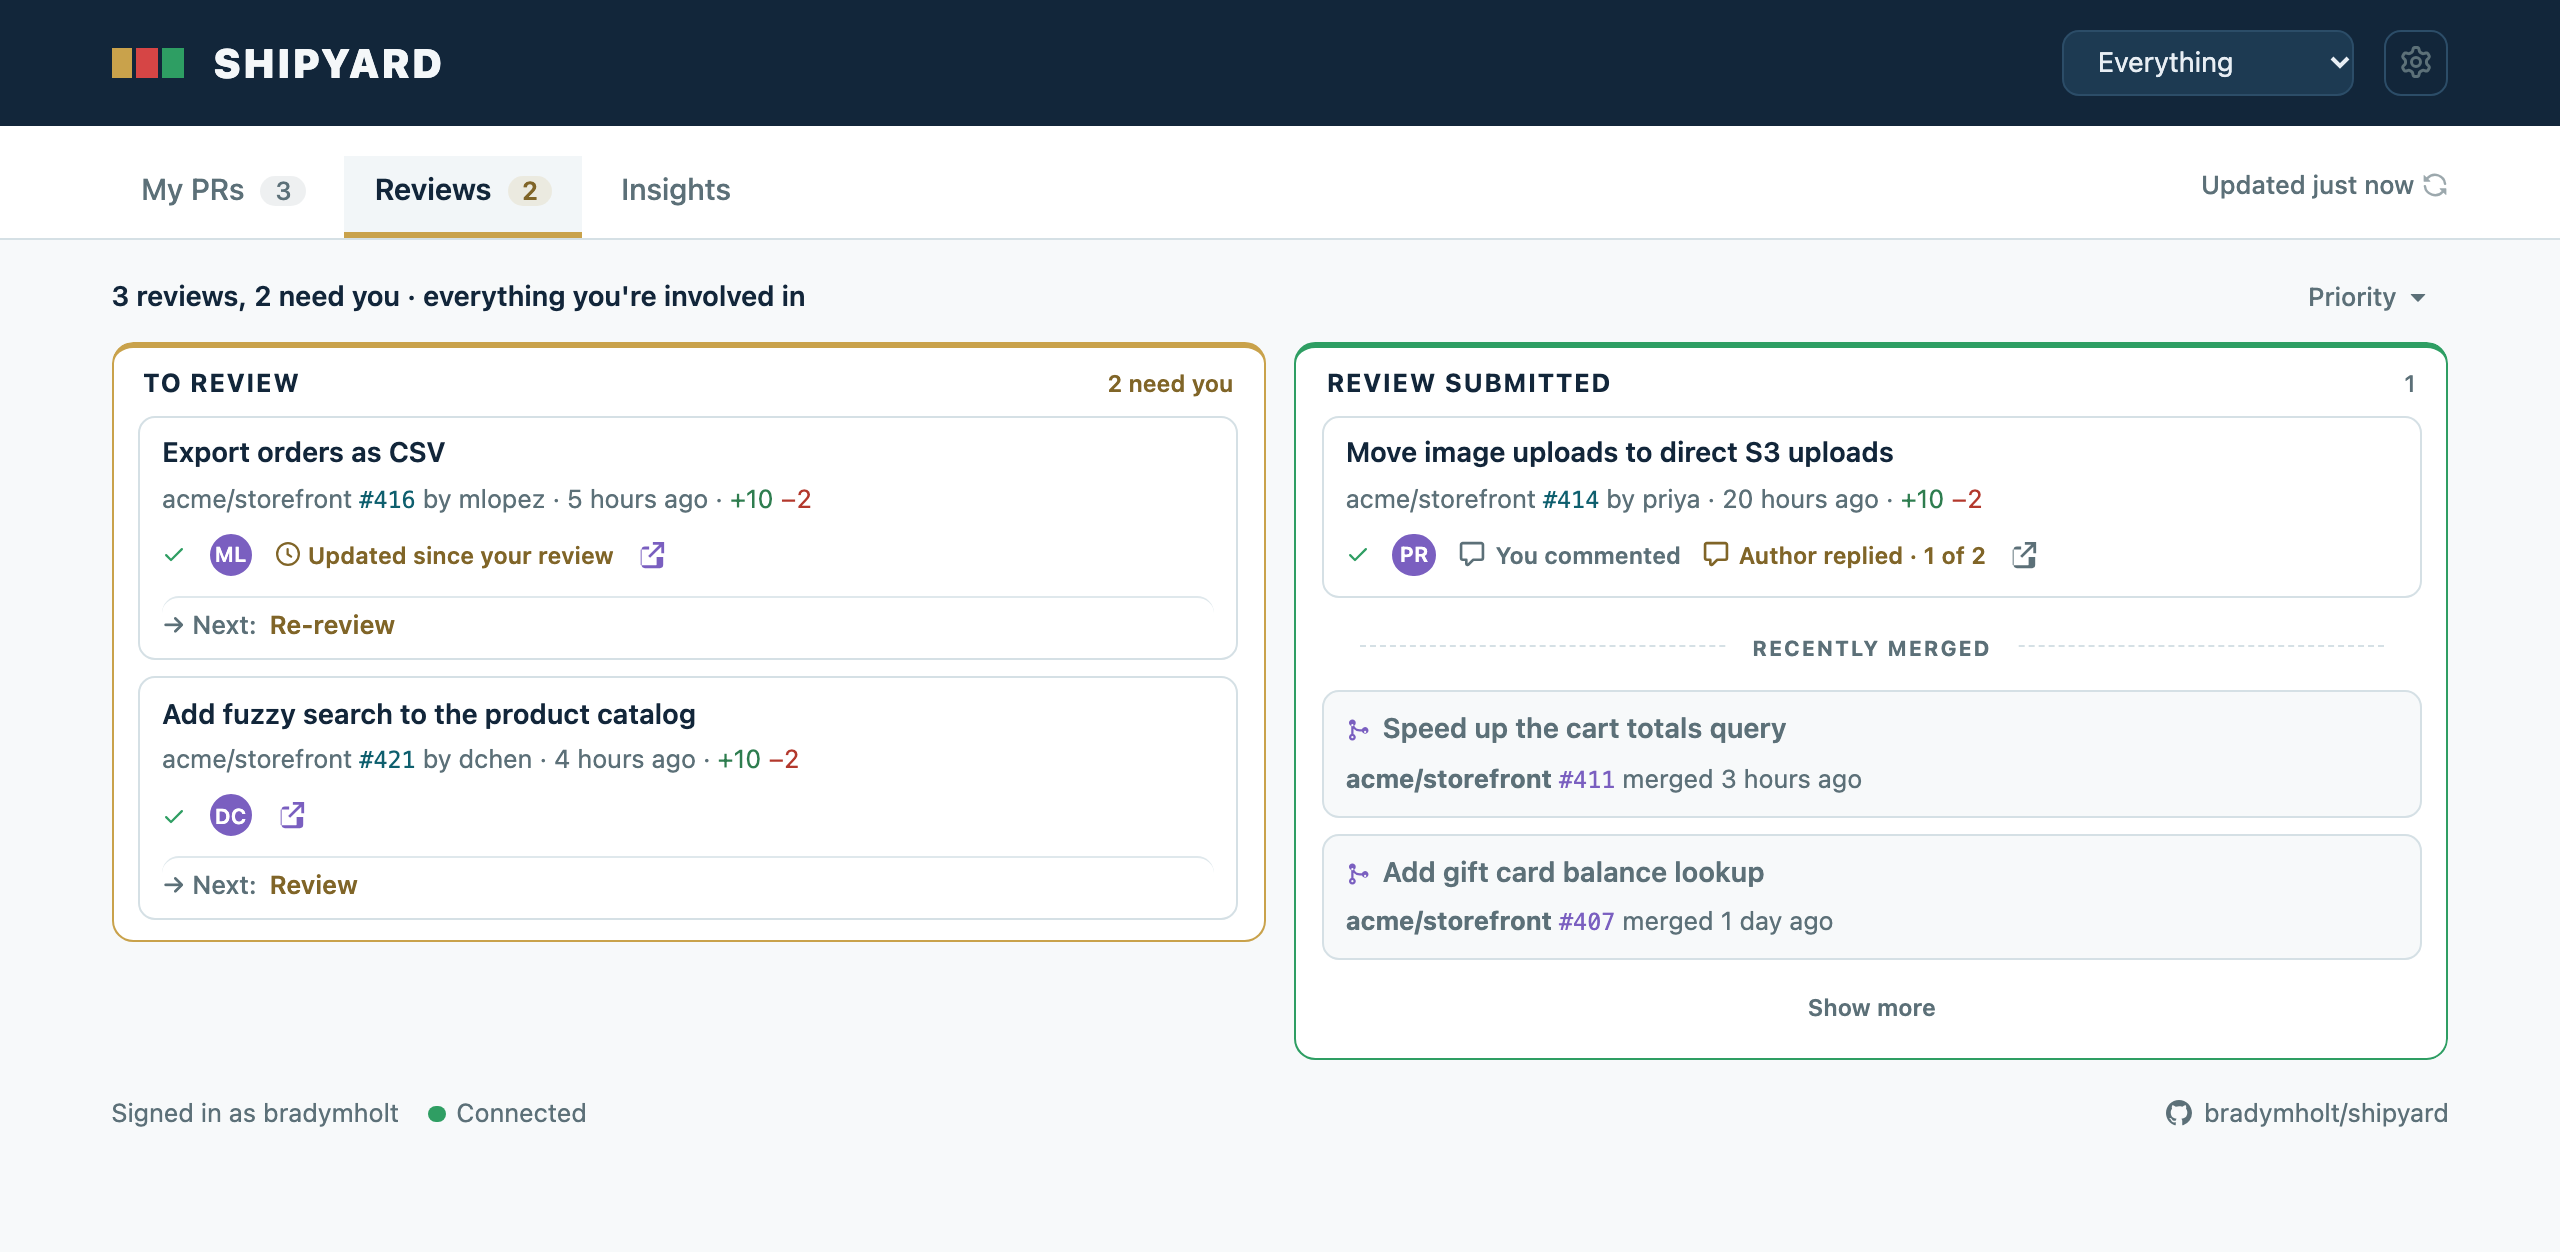
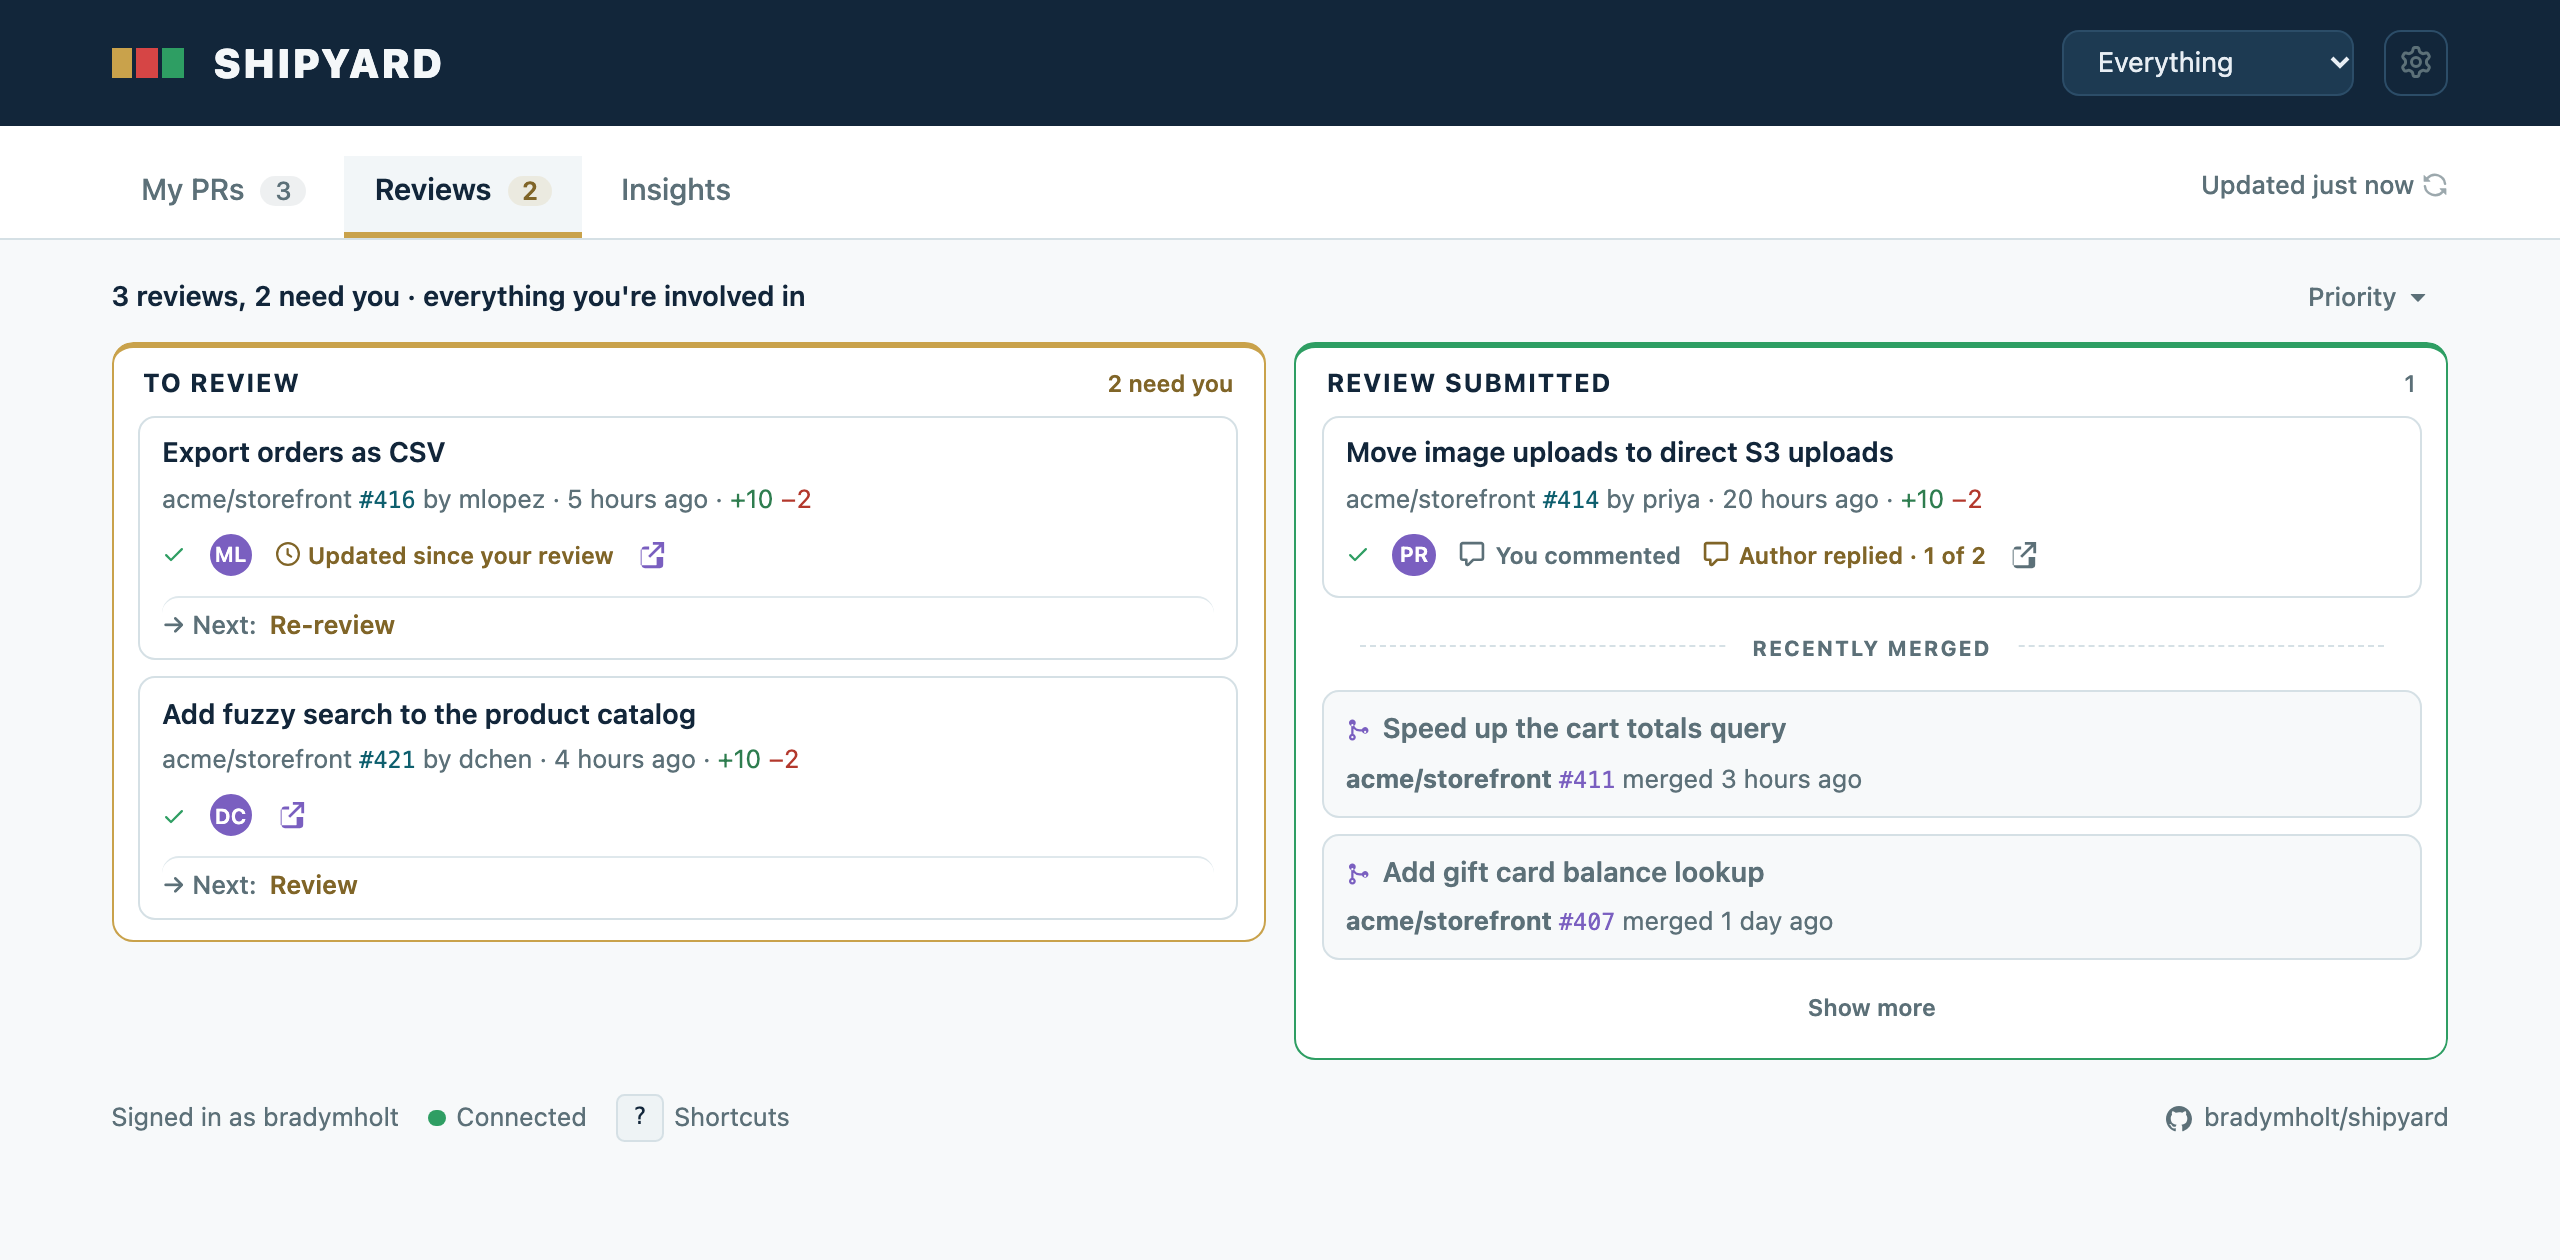
Point to the keyboard shortcuts from the footer
Nothing on the page said ? exists. The footer now carries a small
"? Shortcuts" hint that opens the same list when clicked. It is hidden
on phone widths, where there is no keyboard to press it on.

diff --git a/app.css b/app.css
@@ -195,7 +195,7 @@ dialog#error-dialog::backdrop, dialog#shortcuts-dialog::backdrop { background: v
 .shortcuts { display: grid; grid-template-columns: max-content 1fr; gap: 0.5rem 0.875rem; margin: 0.75rem 0 0; font-size: 0.8125rem; }
 .shortcuts dt { white-space: nowrap; }
 .shortcuts dd { margin: 0; color: var(--fg-muted); }
-.shortcuts kbd { display: inline-block; min-width: 1.375rem; padding: 0 0.3125rem; border: 1px solid var(--border); border-radius: 0.25rem; background: var(--bg-inset); font: 500 0.6875rem/1.25rem var(--mono); text-align: center; color: var(--fg); }
+.shortcuts kbd, .shortcuts-hint kbd { display: inline-block; min-width: 1.375rem; padding: 0 0.3125rem; border: 1px solid var(--border); border-radius: 0.25rem; background: var(--bg-inset); font: 500 0.6875rem/1.25rem var(--mono); text-align: center; color: var(--fg); }
 #error-dialog p { margin: 0 0 1rem; color: var(--fg-muted); font-size: 0.875rem; white-space: pre-wrap; }
 .modal-actions { display: flex; justify-content: flex-end; margin: 1rem 0 0; }
 .views-list { list-style: none; margin: 0.375rem 0 0; padding: 0; display: flex; flex-direction: column; gap: 0.25rem; }
@@ -597,6 +597,10 @@ button.am-toggle:disabled { opacity: .5; cursor: default; }
 
 footer { margin-top: 1rem; color: var(--fg-muted); font-size: 0.75rem; display: flex; gap: 0.875rem; align-items: center; flex-wrap: wrap; }
 #server-status { display: inline-flex; align-items: center; gap: 0.3125rem; }
+.shortcuts-hint { display: inline-flex; align-items: center; gap: 0.3125rem; border: none; background: none; padding: 0; font: inherit; color: inherit; }
+.shortcuts-hint:hover { background: none; color: var(--fg); }
+/* A phone has no keyboard to press it on. */
+@media (max-width: 900px) { .shortcuts-hint { display: none; } }
 .repo-link { margin-left: auto; display: inline-flex; align-items: center; gap: 0.375rem; color: var(--fg-muted); }
 .repo-link:hover { color: var(--teal); text-decoration: none; }
 .repo-link svg { fill: currentColor; }

diff --git a/index.html b/index.html
@@ -115,6 +115,7 @@
   <footer>
     <span id="viewer-info"></span>
     <span id="server-status"></span>
+    <button type="button" id="shortcuts-hint" class="shortcuts-hint" title="Keyboard shortcuts"><kbd>?</kbd> Shortcuts</button>
     <a class="repo-link" href="https://github.com/bradymholt/shipyard" target="_blank" rel="noopener" title="Shipyard on GitHub">
       <svg width="13" height="13" viewBox="0 0 16 16" aria-hidden="true"><path d="M8 0C3.58 0 0 3.58 0 8c0 3.54 2.29 6.53 5.47 7.59.4.07.55-.17.55-.38 0-.19-.01-.82-.01-1.49-2.01.37-2.53-.49-2.69-.94-.09-.23-.48-.94-.82-1.13-.28-.15-.68-.52-.01-.53.63-.01 1.08.58 1.23.82.72 1.21 1.87.87 2.33.66.07-.52.28-.87.51-1.07-1.78-.2-3.64-.89-3.64-3.95 0-.87.31-1.59.82-2.15-.08-.2-.36-1.02.08-2.12 0 0 .67-.21 2.2.82a7.6 7.6 0 0 1 2-.27c.68 0 1.36.09 2 .27 1.53-1.04 2.2-.82 2.2-.82.44 1.1.16 1.92.08 2.12.51.56.82 1.27.82 2.15 0 3.07-1.87 3.75-3.65 3.95.29.25.54.73.54 1.48 0 1.07-.01 1.93-.01 2.2 0 .21.15.46.55.38A8.01 8.01 0 0 0 16 8c0-4.42-3.58-8-8-8Z"/></svg>
       bradymholt/shipyard

diff --git a/js/board.js b/js/board.js
@@ -686,6 +686,8 @@ listBody.addEventListener("keydown", (e) => {
 
 narrowViewport.addEventListener("change", render);
 
+$("#shortcuts-hint").addEventListener("click", () => $("#shortcuts-dialog").showModal());
+
 // j and k walk the cards in reading order; with the sidebar open, it follows along. ? lists the shortcuts.
 document.addEventListener("keydown", (e) => {
   if (!["j", "k", "?"].includes(e.key) || e.metaKey || e.ctrlKey || e.altKey) return;
